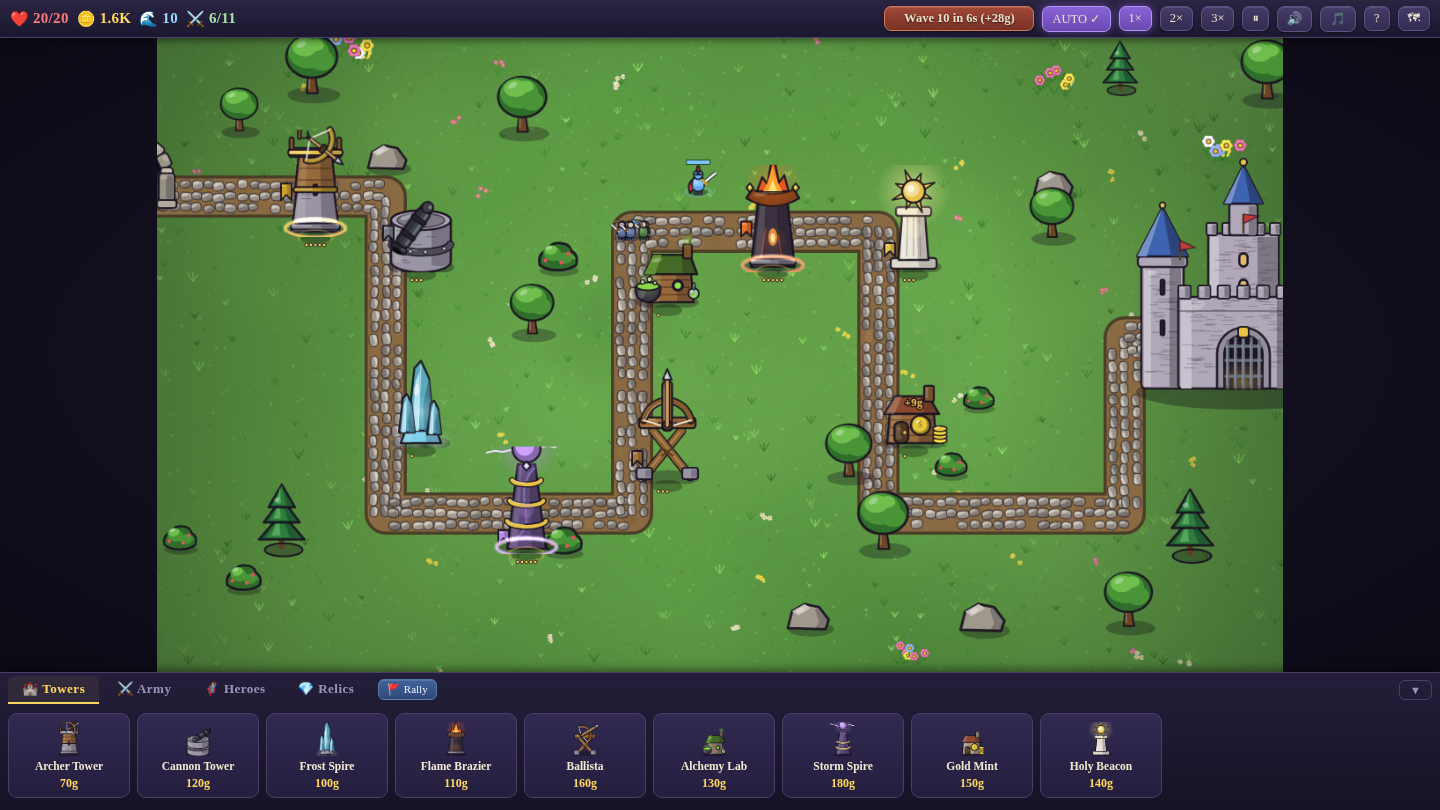
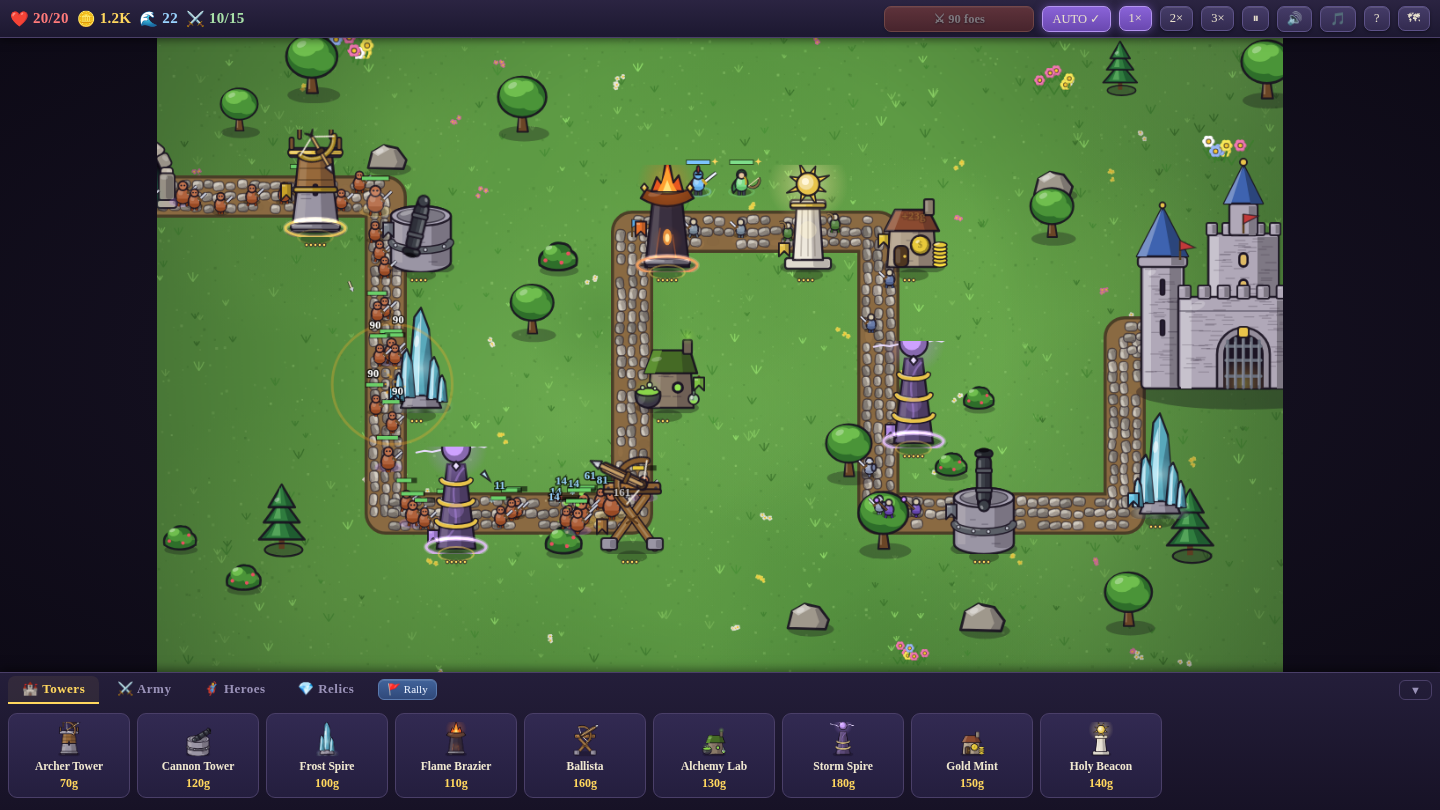
Castle Siege v2: complete visual, audio, and gameplay overhaul
Visuals & audio:
- New pre-rendered sprite library (sprites.js): cobblestone roads,
  themed terrain (meadow/autumn/ashen), grand castle, 45 tower
  sprites with level progression, 43 UI icons — all procedural
- Generative medieval soundtrack (music.js): Karplus-Strong lute,
  flute, drums with calm/battle/boss intensity layers; 54 SFX
  including per-hero attack signatures

Gameplay:
- 3 battlefields/difficulties: 1, 2, or 3 enemy paths with
  per-map saves, economy mods, and best-wave records
- 6 recruitable heroes with trainable levels, auto-cast skills
  (Lv3) and passives (Lv8)
- Relic shop (7 permanent tiered upgrades) and 3 consumables
  (click-target Meteor Strike, Horn of Renewal, Frost Nova)
- Milestone chests, discounted auto-resummons, threat-based
  multi-path troop reinforcement

UI:
- Collapsible bottom dock with Towers/Army/Heroes/Relics tabs,
  built for quarter-screen multitask play; letterbox-aware input

Fixes from automated review & play-testing:
- Save no longer re-written after a lethal leak (mid-step game-over)
- Dead saves rejected on load; meteor targeting cancels cleanly on
  mode switch without consuming stock
- Multi-path tower targeting uses distance-to-gate, not raw path d
- Economy rebalance: path-scaled start gold, ramped multi-path
  pressure, wave-10 boss as a fair teaching fight

Claude-Session: https://claude.ai/code/session_01PSnkwAM42wgyM8j2UD5JLv

diff --git a/castle-siege/ui.js b/castle-siege/ui.js
@@ -146,7 +146,7 @@ function beginRun(mapId,cont){
   started=true;
   UIS.mode='none';UIS.selTower=null;
   buildArmyCards();buildHeroCards();buildRelicCards();refreshCards();
-  hideTowerDetail();
+  hideTowerDetail();setCursorHint('');
   SFXp('horn_wave');
 }
 function onGameOver(){
@@ -206,7 +206,7 @@ function bindHud(){
     };
   }
   $('btnDock').onclick=()=>setDock($('dockbody').style.display==='none');
-  $('btnRally').onclick=()=>{UIS.mode='rally';UIS.selTower=null;setCursorHint('Click near a road to set that road’s rally point');};
+  $('btnRally').onclick=()=>{UIS.mode='rally';UIS.selTower=null;if(G)G.targetMode=null;setCursorHint('Click near a road to set that road’s rally point');};
 }
 function setDock(open,silent){
   $('dockbody').style.display=open?'block':'none';
@@ -384,23 +384,32 @@ function refreshHeroCards(){
     if(h.lvl>=def.skill.unlockLvl)sk.innerHTML='✦ '+def.skill.name+(h.recruited&&!h.dead&&h.skillCd>0?' <span class="cd">'+Math.ceil(h.skillCd)+'s</span>':'');
     else sk.innerHTML='<span class="locked-skill">✦ '+def.skill.name+' at Lv '+def.skill.unlockLvl+'</span>';
     const bb=$('hb-'+def.id);
+    /* only rebuild the buttons row when its structure changes, so 300ms
+       refreshes never swap a button out from under a click */
+    const sig=h.recruited+':'+(h.dead?'d':'a')+':'+h.lvl;
     if(!h.recruited){
-      bb.innerHTML='<button class="small-btn gold" data-rec="'+def.id+'">Recruit '+fmt(def.cost)+'g</button>';
-      bb.querySelector('button').onclick=()=>{const hh=G.heroes.find(x=>x.id===def.id);if(recruitHero(hh))refreshCards();};
+      if(bb.dataset.sig!==sig){
+        bb.dataset.sig=sig;
+        bb.innerHTML='<button class="small-btn gold" data-rec="'+def.id+'">Recruit '+fmt(def.cost)+'g</button>';
+        bb.querySelector('button').onclick=()=>{const hh=G.heroes.find(x=>x.id===def.id);if(recruitHero(hh))refreshCards();};
+      }
       bb.querySelector('button').disabled=G.gold<def.cost;
     }else if(h.dead){
+      bb.dataset.sig=sig;
       bb.innerHTML='<span class="dead-note">☠ '+Math.ceil(h.respawnT)+'s</span>';
     }else{
       const c=heroUpCost(def,h.lvl);
-      bb.innerHTML='<button class="small-btn gold" data-tr="'+def.id+'">⬆ '+fmt(c)+'g</button>'+
-        '<button class="small-btn" data-mv="'+def.id+'">🚶 Move</button>';
-      const tb=bb.querySelector('[data-tr]');
-      tb.onclick=()=>{const hh=G.heroes.find(x=>x.id===def.id);if(upgradeHeroU(hh))refreshCards();};
-      tb.disabled=G.gold<c;
-      bb.querySelector('[data-mv]').onclick=()=>{
-        G.selHero=h;UIS.mode='hero';
-        setCursorHint('Click the map to post '+def.name+' there');
-      };
+      if(bb.dataset.sig!==sig){
+        bb.dataset.sig=sig;
+        bb.innerHTML='<button class="small-btn gold" data-tr="'+def.id+'">⬆ '+fmt(c)+'g</button>'+
+          '<button class="small-btn" data-mv="'+def.id+'">🚶 Move</button>';
+        bb.querySelector('[data-tr]').onclick=()=>{const hh=G.heroes.find(x=>x.id===def.id);if(upgradeHeroU(hh))refreshCards();};
+        bb.querySelector('[data-mv]').onclick=()=>{
+          G.selHero=h;UIS.mode='hero';G.targetMode=null;
+          setCursorHint('Click the map to post '+def.name+' there');
+        };
+      }
+      bb.querySelector('[data-tr]').disabled=G.gold<c;
     }
   }
 }
@@ -558,22 +567,23 @@ function bindCanvas(){
 function bindKeys(){
   window.addEventListener('keydown',ev=>{
     if(!started||!G)return;
-    if(ev.key==='Escape'){cancelMode();UIS.mode='none';UIS.selTower=null;hideTowerDetail();setCursorHint('');}
+    if(ev.key==='Escape'){cancelMode();UIS.mode='none';UIS.selTower=null;hideTowerDetail();setCursorHint('');return;}
+    if(G.over)return;
     else if(ev.key===' '){ev.preventDefault();G.paused=!G.paused;}
     else if(ev.key==='f'||ev.key==='F'){G.speed=G.speed>=3?1:G.speed+1;}
-    else if(ev.key==='r'||ev.key==='R'){UIS.mode='rally';setCursorHint('Click near a road to set that road’s rally point');}
+    else if(ev.key==='r'||ev.key==='R'){UIS.mode='rally';G.targetMode=null;setCursorHint('Click near a road to set that road’s rally point');}
     else if(ev.key==='h'||ev.key==='H'){
       const hs=activeHeroes();
       if(hs.length){
         const i=(hs.indexOf(G.selHero)+1)%hs.length;
-        G.selHero=hs[i];UIS.mode='hero';
+        G.selHero=hs[i];UIS.mode='hero';G.targetMode=null;
         setCursorHint('Click the map to post '+G.selHero.hdef.name+' there');
       }
     }
     else if(ev.key>='1'&&ev.key<='9'){
       const def=TOWERS[+ev.key-1];
       if(def){
-        UIS.mode='build';UIS.buildType=def.id;
+        UIS.mode='build';UIS.buildType=def.id;G.targetMode=null;
         document.querySelectorAll('#towerCards .card').forEach(x=>x.classList.remove('selected'));
         const el=$('tc-'+def.id);if(el)el.classList.add('selected');
         setCursorHint('Click an empty tile to build '+def.name+' (Shift-click = several)');

diff --git a/castle-siege/render.js b/castle-siege/render.js
@@ -478,8 +478,8 @@ function drawHeroU(c,h){
   const w=26,pct=clamp(h.hp/h.maxHp,0,1);
   c.fillStyle='rgba(0,0,0,0.55)';c.fillRect(x-w/2-1,y-s-17,w+2,6);
   c.fillStyle=def.col;c.fillRect(x-w/2,y-s-16,w*pct,4);
-  /* skill-ready glint */
-  if(h.lvl>=def.skill.unlockLvl&&h.skillCd<=0){
+  /* skill-ready glint (also shown while re-checking for targets) */
+  if(h.lvl>=def.skill.unlockLvl&&h.skillCd<=1.3){
     c.fillStyle='#ffd75e';c.font='bold 10px Georgia';c.textAlign='center';
     c.fillText('✦',x+w/2+6,y-s-11);
   }
@@ -525,7 +525,9 @@ function drawProj(c,p){
 function drawFx(c,f){
   if(f.kind==='ring'){
     c.strokeStyle=f.col;c.globalAlpha=Math.max(0,f.life*2);c.lineWidth=3;
-    c.beginPath();c.arc(f.x,f.y,f.curR===undefined?(f.curR=f.r):f.curR+=(f.maxR-f.r)*0.12,0,7);c.stroke();
+    if(f.curR===undefined)f.curR=f.r;
+    f.curR=Math.min(f.maxR,f.curR+(f.maxR-f.r)*0.12);
+    c.beginPath();c.arc(f.x,f.y,f.curR,0,7);c.stroke();
     c.globalAlpha=1;
   }else if(f.kind==='zap'){
     c.globalCompositeOperation='lighter';
@@ -642,6 +644,7 @@ function drawFrame(c,UIS){
     c.fillStyle=ok?'rgba(120,230,140,0.3)':'rgba(230,90,90,0.3)';
     c.fillRect(x,y,CFG.CELL,CFG.CELL);
     c.strokeStyle=ok?'rgba(120,230,140,0.8)':'rgba(230,90,90,0.8)';
+    c.lineWidth=2;
     c.strokeRect(x+1,y+1,CFG.CELL-2,CFG.CELL-2);
     const def=TOWER_BY[UIS.buildType];
     if(def.range){

diff --git a/castle-siege/engine.js b/castle-siege/engine.js
@@ -437,7 +437,8 @@ function towerFire(t,st,def){
   if(!inRange.length)return false;
   let tgt;
   if(def.id==='ballista')tgt=inRange.reduce((a,b)=>a.hp>b.hp?a:b);
-  else tgt=inRange.reduce((a,b)=>a.d>b.d?a:b);
+  else tgt=inRange.reduce((a,b)=>(MAP.P[a.pi].total-a.d)<(MAP.P[b.pi].total-b.d)?a:b); // closest to the gate
+
   t.ang=Math.atan2(tgt.y-t.y,tgt.x-t.x);
   const dmg=st.dmg*t.auraMul*(1+relicVal('engineering'));
   switch(def.id){
@@ -488,7 +489,7 @@ function towerFire(t,st,def){
       SFXp('zap');break;}
     case 'flame':{
       damageEnemy(tgt,dmg,'magic');
-      tgt.burnT=st.burnDur;tgt.burnDps=Math.max(tgt.burnDps,st.burn*t.auraMul);
+      tgt.burnT=st.burnDur;tgt.burnDps=Math.max(tgt.burnDps,st.burn*t.auraMul*(1+relicVal('engineering')));
       for(let i=0;i<2;i++){
         if(G.parts.length<520){
           const a=t.ang+rnd(-0.25,0.25),s=rnd(120,200);